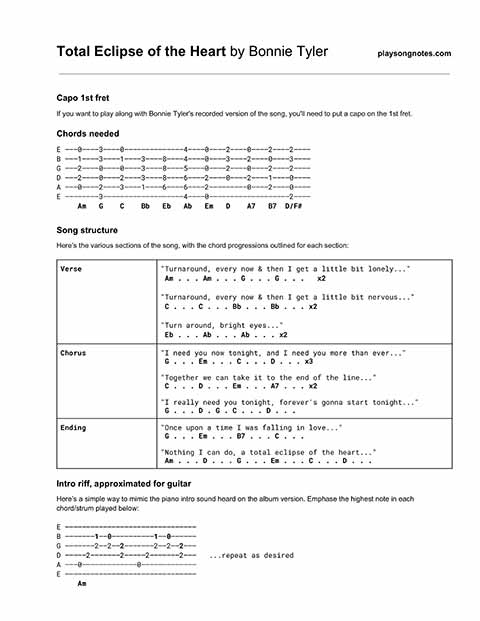
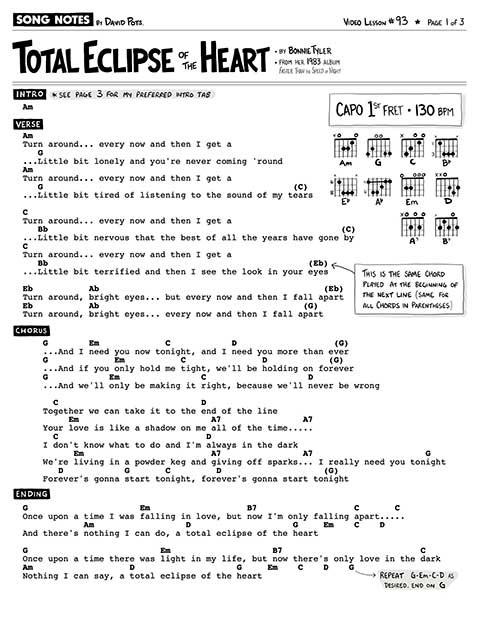
Adds 93 mn url

Changed region(s): [[0.0312, 0.0, 0.9688, 0.9485], [0.7188, 0.8567, 0.9688, 0.9485]]

diff --git a/_lessons/93 [Bonnie Tyler] Total Eclipse of the Heart.md b/_lessons/93 [Bonnie Tyler] Total Eclipse of the Heart.md
@@ -13,10 +13,9 @@ date_published: 2017-08-17
 redirect_from:
   - /songs/bonnie-tyler-total-eclipse-of-the-heart/
 #pdf_version: v1
-pdf_version: copyright
-pdf_numpages: 2
-patreon_lesson_available: true
-patreon_lesson_url: https://www.patreon.com/posts/21721986
+pdf_version: musicnotes
+pdf_numpages: 3
+musicnotes_url: https://www.musicnotes.com/l/jD7M4
 ---
 
 ## Video lesson
@@ -36,122 +35,17 @@ In this lesson I'll show you how to play a strum-along guitar version of "Total 
 
 If you want to play along with Bonnie Tyler's recorded version of the song, you'll need to put a capo on the 1st fret and use all chords and tabs below. You could also not use a capo and use the chords - but note you'll be in a different key than the album version of this song (which may not be a big deal unless you're trying to play along with it).
 
-## Intro riff, simplified
-
-Put your left hand in the A-minor position, and play the riff as follows. Note that you want to omit the high E-string, and accent the thinnest string (in each strum) to drive the melody notes home.
-
-    E –––––––––––––––––––––––––––––––
-    B –––––––1––0––––––––––1––0––––––
-    G –––––––2––2––2–––––––2––2––2–––
-    D –––––2–––––––2–––––2–––––––2–––   ...repeat as desired
-    A –––0–––––––––––––0–––––––––––––
-    E –––––––––––––––––––––––––––––––
-         Am
 
 ## Chords needed:
 
-    E –––0––––3––––0––––––––––––––4––––0––––2––––0––––2––––2––––
-    B –––1––––3––––1––––3––––8––––4––––0––––3––––2––––0––––3––––
-    G –––2––––0––––0––––3––––8––––5––––0––––2––––0––––2––––2––––
-    D –––2––––0––––2––––3––––8––––6––––2––––0––––2––––1––––0––––
-    A –––0––––2––––3––––1––––6––––6––––2–––––––––0––––2––––0––––
-    E ––––––––3–––––––––––––––––––4––––0–––––––––––––––––––2––––
-         Am   G    C    Bb   Eb   Ab   Em   D    A7   B7  D/F#
+    E –––0––––3––––0––––––––––––––4––––0––––2––––0––––2–––
+    B –––1––––3––––1––––3––––8––––4––––0––––3––––2––––0–––
+    G –––2––––0––––0––––3––––8––––5––––0––––2––––0––––2–––
+    D –––2––––0––––2––––3––––8––––6––––2––––0––––2––––1–––
+    A –––0––––2––––3––––1––––6––––6––––2–––––––––0––––2–––
+    E ––––––––3–––––––––––––––––––4––––0––––––––––––––––––
+         Am   G    C    Bb   Eb   Ab   Em   D    A7   B7  
 
-## Strumming pattern:
+## Lyrics, Chord Progressions, Strumming, and Fingerstyle Tab
 
-I keep the strumming pattern quite simple:
-
-    D = downstrum   U = upstrum
-
-    D       D   D U
-    1 + 2 + 3 + 4 +
-
-That same pattern, as if spoken out loud, would be this (keep on repeating it):
-
-    Down... down, down up down... down, down up down... down, down up down...
-
-## Song structure
-
-Quite simply, there are a lot of sections of this song. Here's the high-level guide, with chord progression for each section:
-
-### Verse:
-
-    "Turnaround, every now & then I get a little bit lonely..."
-    Am . . . Am . . . G . . . G . . .   x2
-
-    "Turnaround, every now & then I get a little bit nervous..."
-    C . . . C . . . Bb . . . Bb . . . x2
-
-    "Turn around, bright eyes..."
-    Eb . . . Ab . . . Ab . . . x2
-
-### Chorus:
-
-    "I need you now tonight, and I need you more than ever..."
-    G . . . Em . . . C . . . D . . . x3
-
-    "Together we can take it to the end of the line..."
-    C . . . D . . . Em . . . A7 . . . x2
-
-    "I really need you tonight, forever's gonna start tonight..."
-    G . . . D . G . C . . . D . . .
-
-### Ending:
-
-    "Once upon a time I was falling in love..."
-    G . . . Em . . . B7 . . . C . . .
-
-    "Nothing I can do, a total eclipse of the heart..."
-    Am . . . D . . . G . . . Em . . . C . . . D . . .
-
-## Lyrics w/ chords
-
-    VERSE
-        Am                                   G
-        Turnaround, every now & then I get a little bit lonely and you're never coming round
-        Am                                   G
-        Turnaround, every now & then I get a little bit tired of listening to the sound of my tears
-        C                                    Bb
-        Turnaround, every now & then I get a little bit nervous that the best of all the years have gone by
-        C                                    Bb
-        Turnaround, every now & then I get a little bit terrified and then I see the look in your eyes
-        Eb          Ab
-        Turnaround, bright eyes... but every now and then I fall apart
-        Eb          Ab
-        Turnaround, bright eyes... every now and then I fall apart
-
-    CHORUS
-        G        Em             C            D
-        ...And I need you now tonight, and I need you more than ever
-        G             Em           C               D
-        ...And if you only hold me tight, we'll be holding on forever
-        G            Em                C                    D
-        ...And we'll only be making it right, because we'll never be wrong
-          C                            D
-        Together we can take it to the end of the line
-             Em                          A7
-        Your love is like a shadow on me all of the time
-          C                             D
-        I don't know what to do and I'm always in the dark
-              Em                         A7
-        We're living in a powder keg and giving off sparks
-                            G
-        I really need you tonight
-           D/F#         G       C         D
-        Forever's gonna start tonight, forever's gonna start tonight
-
-    ENDING
-        G                      Em                   B7                   C
-        Once upon a time I was falling in love, but now I'm only falling apart
-                    Am                  D                    G     Em    C    D
-        And there's nothing I can do, a total eclipse of the heart
-        G                          Em                    B7                           C
-        Once upon a time there was light in my life, but now there's only love in the dark
-        Am                   D                    G     Em    C    D
-        Nothing I can say, a total eclipse of the heart
-
-
-## Good luck!
-
-Thanks for reading! I hope this helped you. Questions? Comments? Requests? Let me know!
+See my 3-page song sheet! The first page includes the lyrics for the entire song, along with the chords atop each of the corresponding words. I also show you how to fingerpick the verse sections, before switching to strumming (for the chorus and ending). I also show how to emulate the outro "melody" riff, to imitate the vibe of the album version.

diff --git a/backlog.md b/backlog.md
@@ -18,6 +18,7 @@ permalink: /backlog/
 
 Here's the songs I've most recently re-listed for purchase at Musicnotes.com. Each arrangement is officially licensed & legal, and also uses my latest sheet music formatting.
 
+- May 23 - [Total Eclipse of the Heart](https://playsongnotes.com/lessons/93/)
 - May 16 - [Lookin' Out My Backdoor](https://playsongnotes.com/lessons/261/)
 - May 9  - [American Girl](https://playsongnotes.com/lessons/113/)
 - May 2  - [Creep](https://playsongnotes.com/lessons/153/)
@@ -73,7 +74,6 @@ Here's the songs I've most recently re-listed for purchase at Musicnotes.com. Ea
     My Fav. Picture of You      XXXXXXXX
     My Old Kentucky Home        XXXXXXXXX
     Remember Me •               XXXXXXXX
-    Total Eclipse of the Heart  XXXXXXXX
     We Are the Champions •      XXXXXXX
     When the Man Comes Around   XXXXXXXX
 
